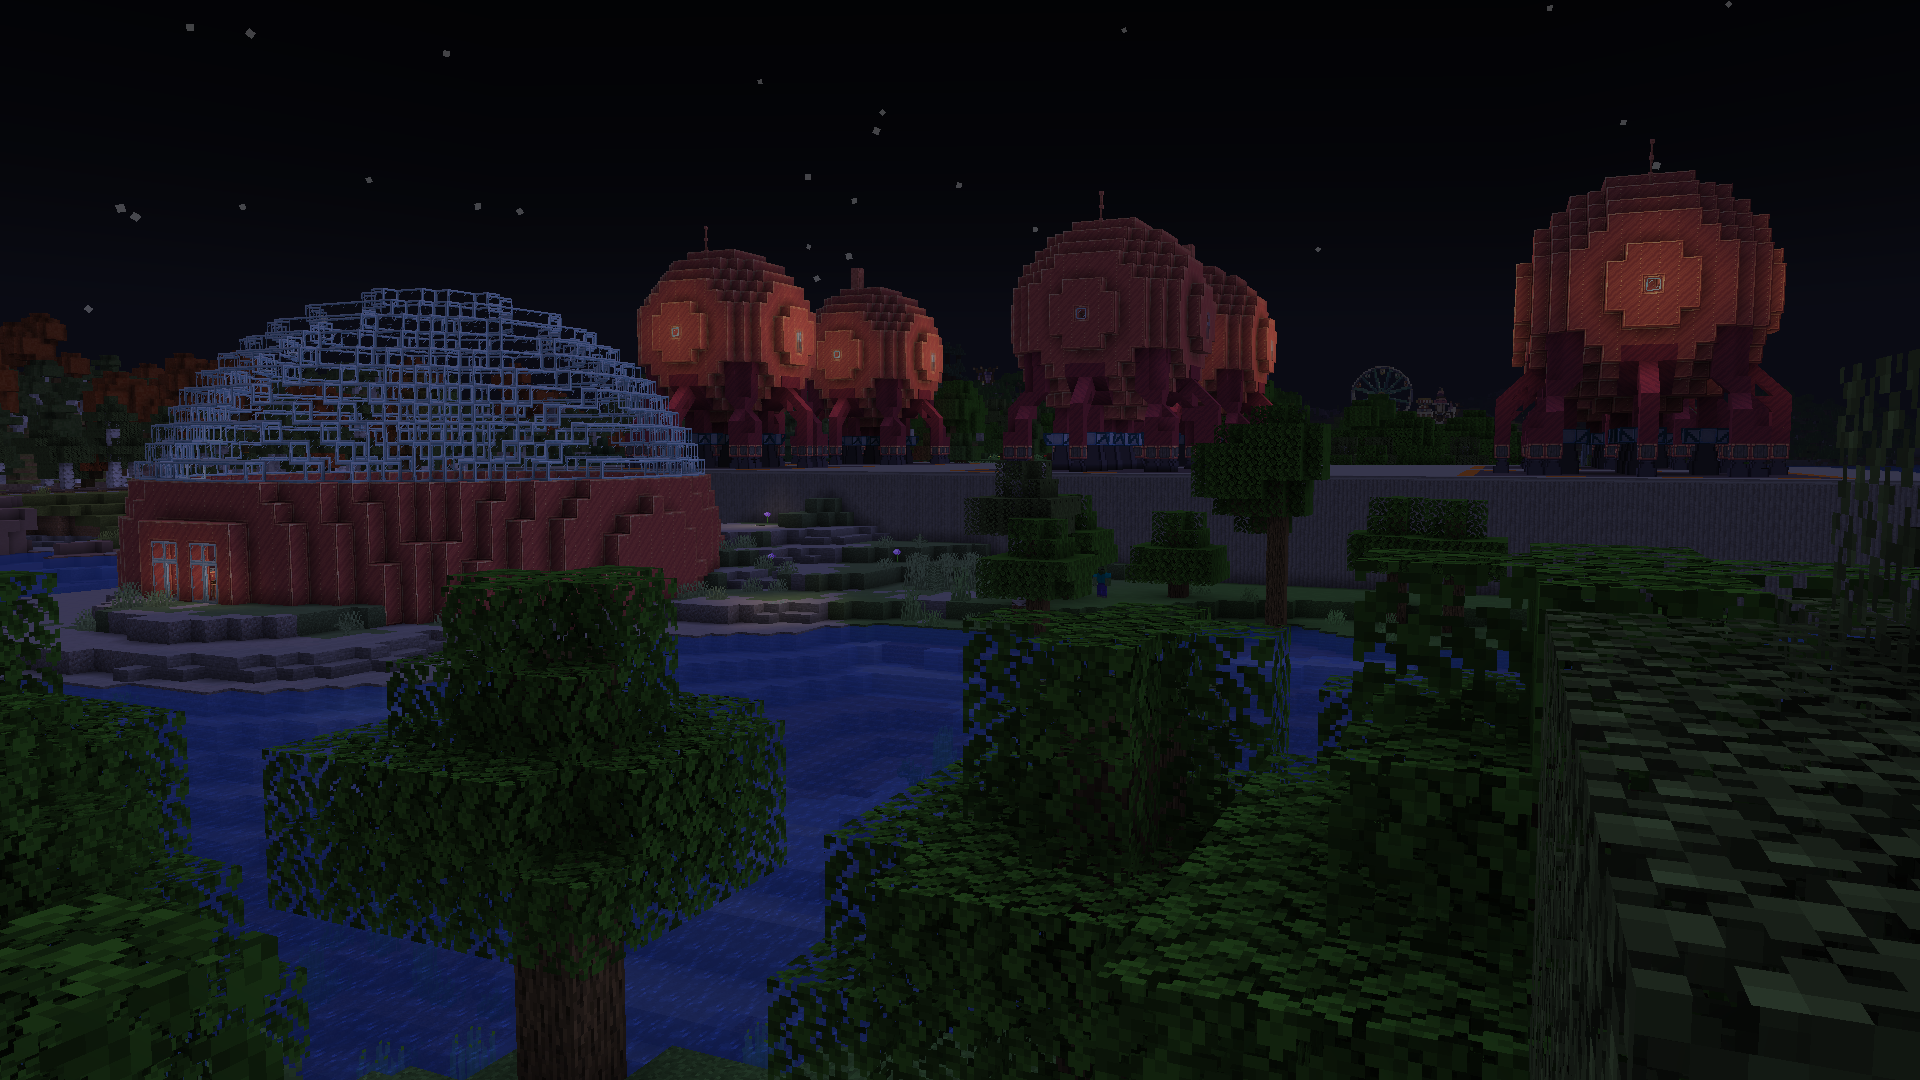
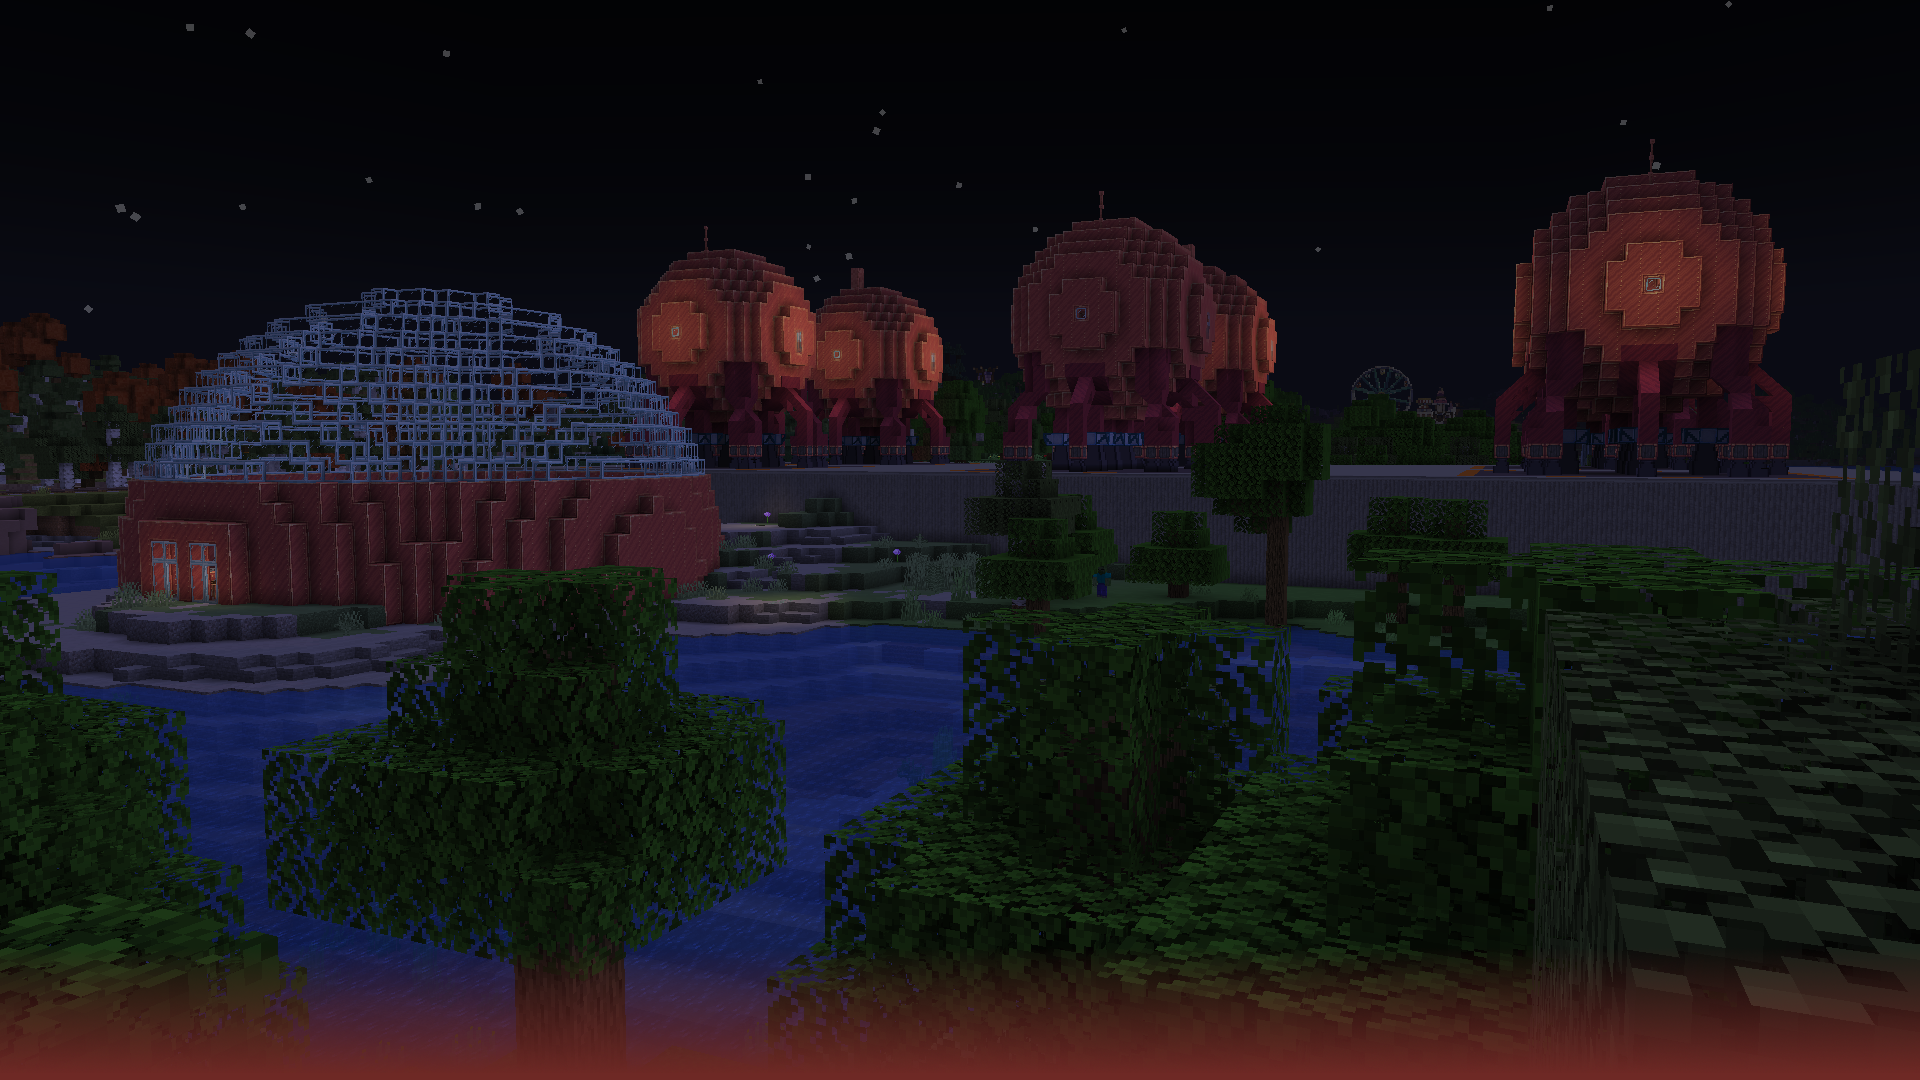
added travel and maps page

Changed region(s): [[0.0, 0.8861, 1.0, 1.0]]

diff --git a/app/travel/page.js b/app/travel/page.js
@@ -1,0 +1,45 @@
+import Navbar from '../../components/navbar'
+import Image from 'next/image'
+
+export default function Travel() {
+
+
+    return (
+      <main>
+        <Navbar/>
+        <Image className='mr-20 -z-10 relative' alt={'Vanguard Space Port'} src={'/images/spaceport.png'} width='2500' height='2500' style={{ width: '100%', height: 'auto' }}/>
+
+        <div style={{ width: '100%', height: '100%', position: 'relative'}} className='flex flex-col justify-start my-20 z-10'>
+            <div style={{ width: '60%', height: '90%', position: 'relative'}} className='border-4 border-solid border-vanguardOrange rounded-xl ml-10 mb-10'>
+                <h1 className="text-3xl text-vanguardOrange font-(vanguardFont) drop-shadow-xl m-5">Introduction</h1>
+                <p className="text-sm text-white font-(vanguardFont) drop-shadow-xl m-5">Lorem ipsum dolor sit amet, consectetur adipiscing elit. 
+                    Vestibulum in sollicitudin tellus. Duis ac posuere eros. Cras non lacus ultricies, pharetra mauris a, porttitor augue. 
+                    In nisi sapien, aliquam et est non, rutrum euismod metus. Curabitur tincidunt auctor est, ac tristique nisi ornare eu. 
+                    Donec sit amet turpis molestie, viverra nibh nec, dictum ipsum. Maecenas vitae dapibus leo. Sed rutrum placerat nisi vel lacinia.
+                </p>
+            </div>
+            <div style={{ width: '60%', height: '90%', position: 'relative'}} className='border-4 border-solid border-vanguardOrange rounded-xl mr-10 mb-10 self-end'>
+                <h1 className="text-3xl text-vanguardOrange font-(vanguardFont) drop-shadow-xl m-5">Popular Destinations</h1>
+                <p className="text-sm text-white font-(vanguardFont) drop-shadow-xl m-5">Lorem ipsum dolor sit amet, consectetur adipiscing elit. 
+                    Vestibulum in sollicitudin tellus. Duis ac posuere eros. Cras non lacus ultricies, pharetra mauris a, porttitor augue. 
+                    In nisi sapien, aliquam et est non, rutrum euismod metus. Curabitur tincidunt auctor est, ac tristique nisi ornare eu. 
+                    Donec sit amet turpis molestie, viverra nibh nec, dictum ipsum. Maecenas vitae dapibus leo. Sed rutrum placerat nisi vel lacinia.
+                </p>
+            </div>
+            <div style={{ width: '60%', height: '90%', position: 'relative'}} className='border-4 border-solid border-vanguardOrange rounded-xl ml-10 mb-10'>
+                <h1 className="text-3xl text-vanguardOrange font-(vanguardFont) drop-shadow-xl m-5">Collectables</h1>
+                <p className="text-sm text-white font-(vanguardFont) drop-shadow-xl m-5">Lorem ipsum dolor sit amet, consectetur adipiscing elit. 
+                    Vestibulum in sollicitudin tellus. Duis ac posuere eros. Cras non lacus ultricies, pharetra mauris a, porttitor augue. 
+                    In nisi sapien, aliquam et est non, rutrum euismod metus. Curabitur tincidunt auctor est, ac tristique nisi ornare eu. 
+                    Donec sit amet turpis molestie, viverra nibh nec, dictum ipsum. Maecenas vitae dapibus leo. Sed rutrum placerat nisi vel lacinia.
+                </p>
+            </div>
+        </div>
+
+        
+      </main>
+    );
+  }
+
+
+ // bg-gradient-to-b from-transparent via-transparent to-pink-500

diff --git a/components/navbar.js b/components/navbar.js
@@ -6,7 +6,7 @@ export default function Navbar() {
 //<Image className='drop-shadow-vanguard-shadow mt-5' alt={'Vanguard Nav Logo'} src={'/images/vanguard-v.png'} width='256' height='256'></Image>
 
     return(
-        <div className='sticky top-0 bg-[#E2D3B4] drop-shadow-xl'>
+        <div className='bg-[#E2D3B4] drop-shadow-xl'>
             <Image className='fixed z-99' alt={'Vanguard 45 Logo'} src={'/images/vanguard-45-2.png'} width='150' height='150'></Image>
             <div className='z-98'>
                 <div className='w-96 h-8 bg-[#fec633] -rotate-45'/>
@@ -14,8 +14,8 @@ export default function Navbar() {
                 <div className='flex flex-row justify-left align-middle drop-shadow-vanguard-shadow w-auto h-8 my-5 ml-28 p-1 bg-[#fec633]'>
                     <ul className='list-none ml-10'>
                         <li className="text-xl font-(vanguardFont) drop-shadow-xl inline mx-5"><Link href={{pathname:'/'}}>Home</Link></li>
-                        <li className="text-xl font-(vanguardFont) drop-shadow-xl inline mx-5"><Link href={{pathname:'/'}}>Travel</Link></li>
-                        <li className="text-xl font-(vanguardFont) drop-shadow-xl inline mx-5"><Link href={{pathname:'/'}}>Maps</Link></li>
+                        <li className="text-xl font-(vanguardFont) drop-shadow-xl inline mx-5"><Link href={{pathname:'./travel'}}>Travel</Link></li>
+                        <li className="text-xl font-(vanguardFont) drop-shadow-xl inline mx-5"><Link href={{pathname:'./maps'}}>Maps</Link></li>
                         <li className="text-xl font-(vanguardFont) drop-shadow-xl inline mx-5"><Link href={{pathname:'/'}}>Cards</Link></li>
                     </ul>
                 </div>

diff --git a/app/maps/page.js b/app/maps/page.js
@@ -1,0 +1,27 @@
+import Navbar from '../../components/navbar'
+import Image from 'next/image'
+
+export default function Travel() {
+
+
+    return (
+      <main>
+        <Navbar/>
+        <Image className='mr-20 -z-10 relative' alt={"The Ruiner's Heaven"} src={'/images/ruiner-heaven.png'} width='2500' height='2500' style={{ width: '100%', height: 'auto' }}/>
+
+        <div style={{ width: '100%', height: '100%', position: 'relative'}} className='flex flex-col justify-start my-20 z-10'>
+            <div style={{ width: '60%', height: '90%', position: 'relative'}} className='border-4 border-hidden border-vanguardOrange rounded-xl ml-10 mb-10'>
+                <h1 className="text-3xl text-vanguardOrange font-(vanguardFont) drop-shadow-xl m-5">Map Links</h1>
+                <a className="text-md text-vanguardOrange font-(vanguardFont) drop-shadow-xl m-5 underline" href="http://23.17.34.171:3876/">Train Map</a>
+                <br></br>
+                <a className="text-md text-vanguardOrange font-(vanguardFont) drop-shadow-xl m-5 underline" href="http://23.17.34.171:3876/">Server Map</a>
+            </div>
+        </div>
+
+        
+      </main>
+    );
+  }
+
+
+ // bg-gradient-to-b from-transparent via-transparent to-pink-500
